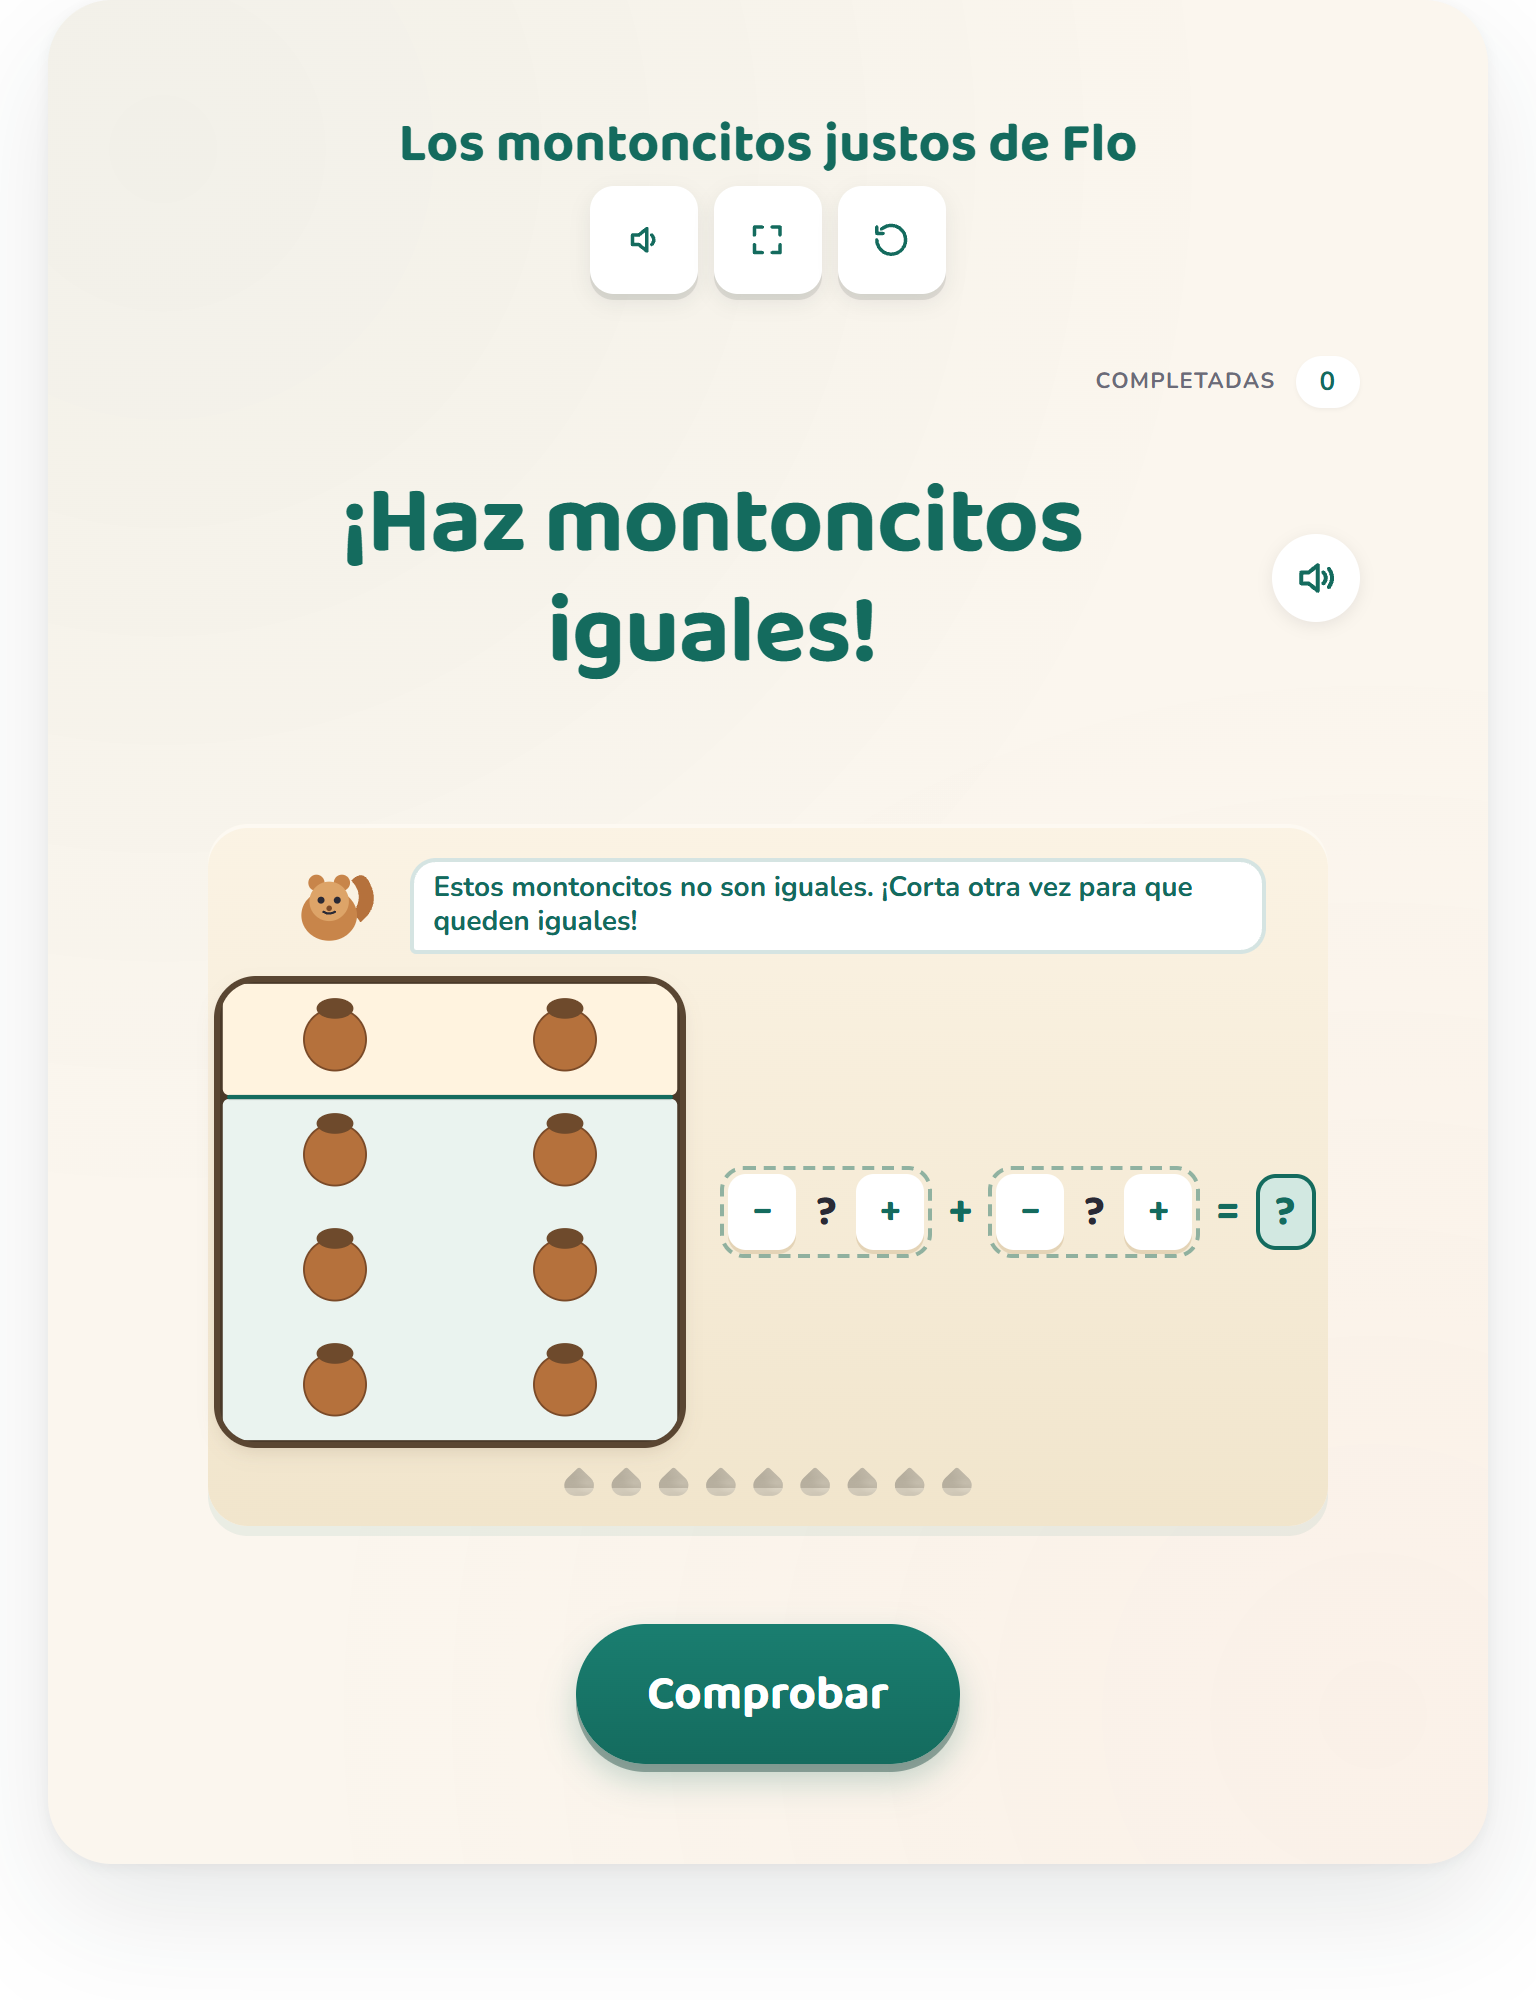
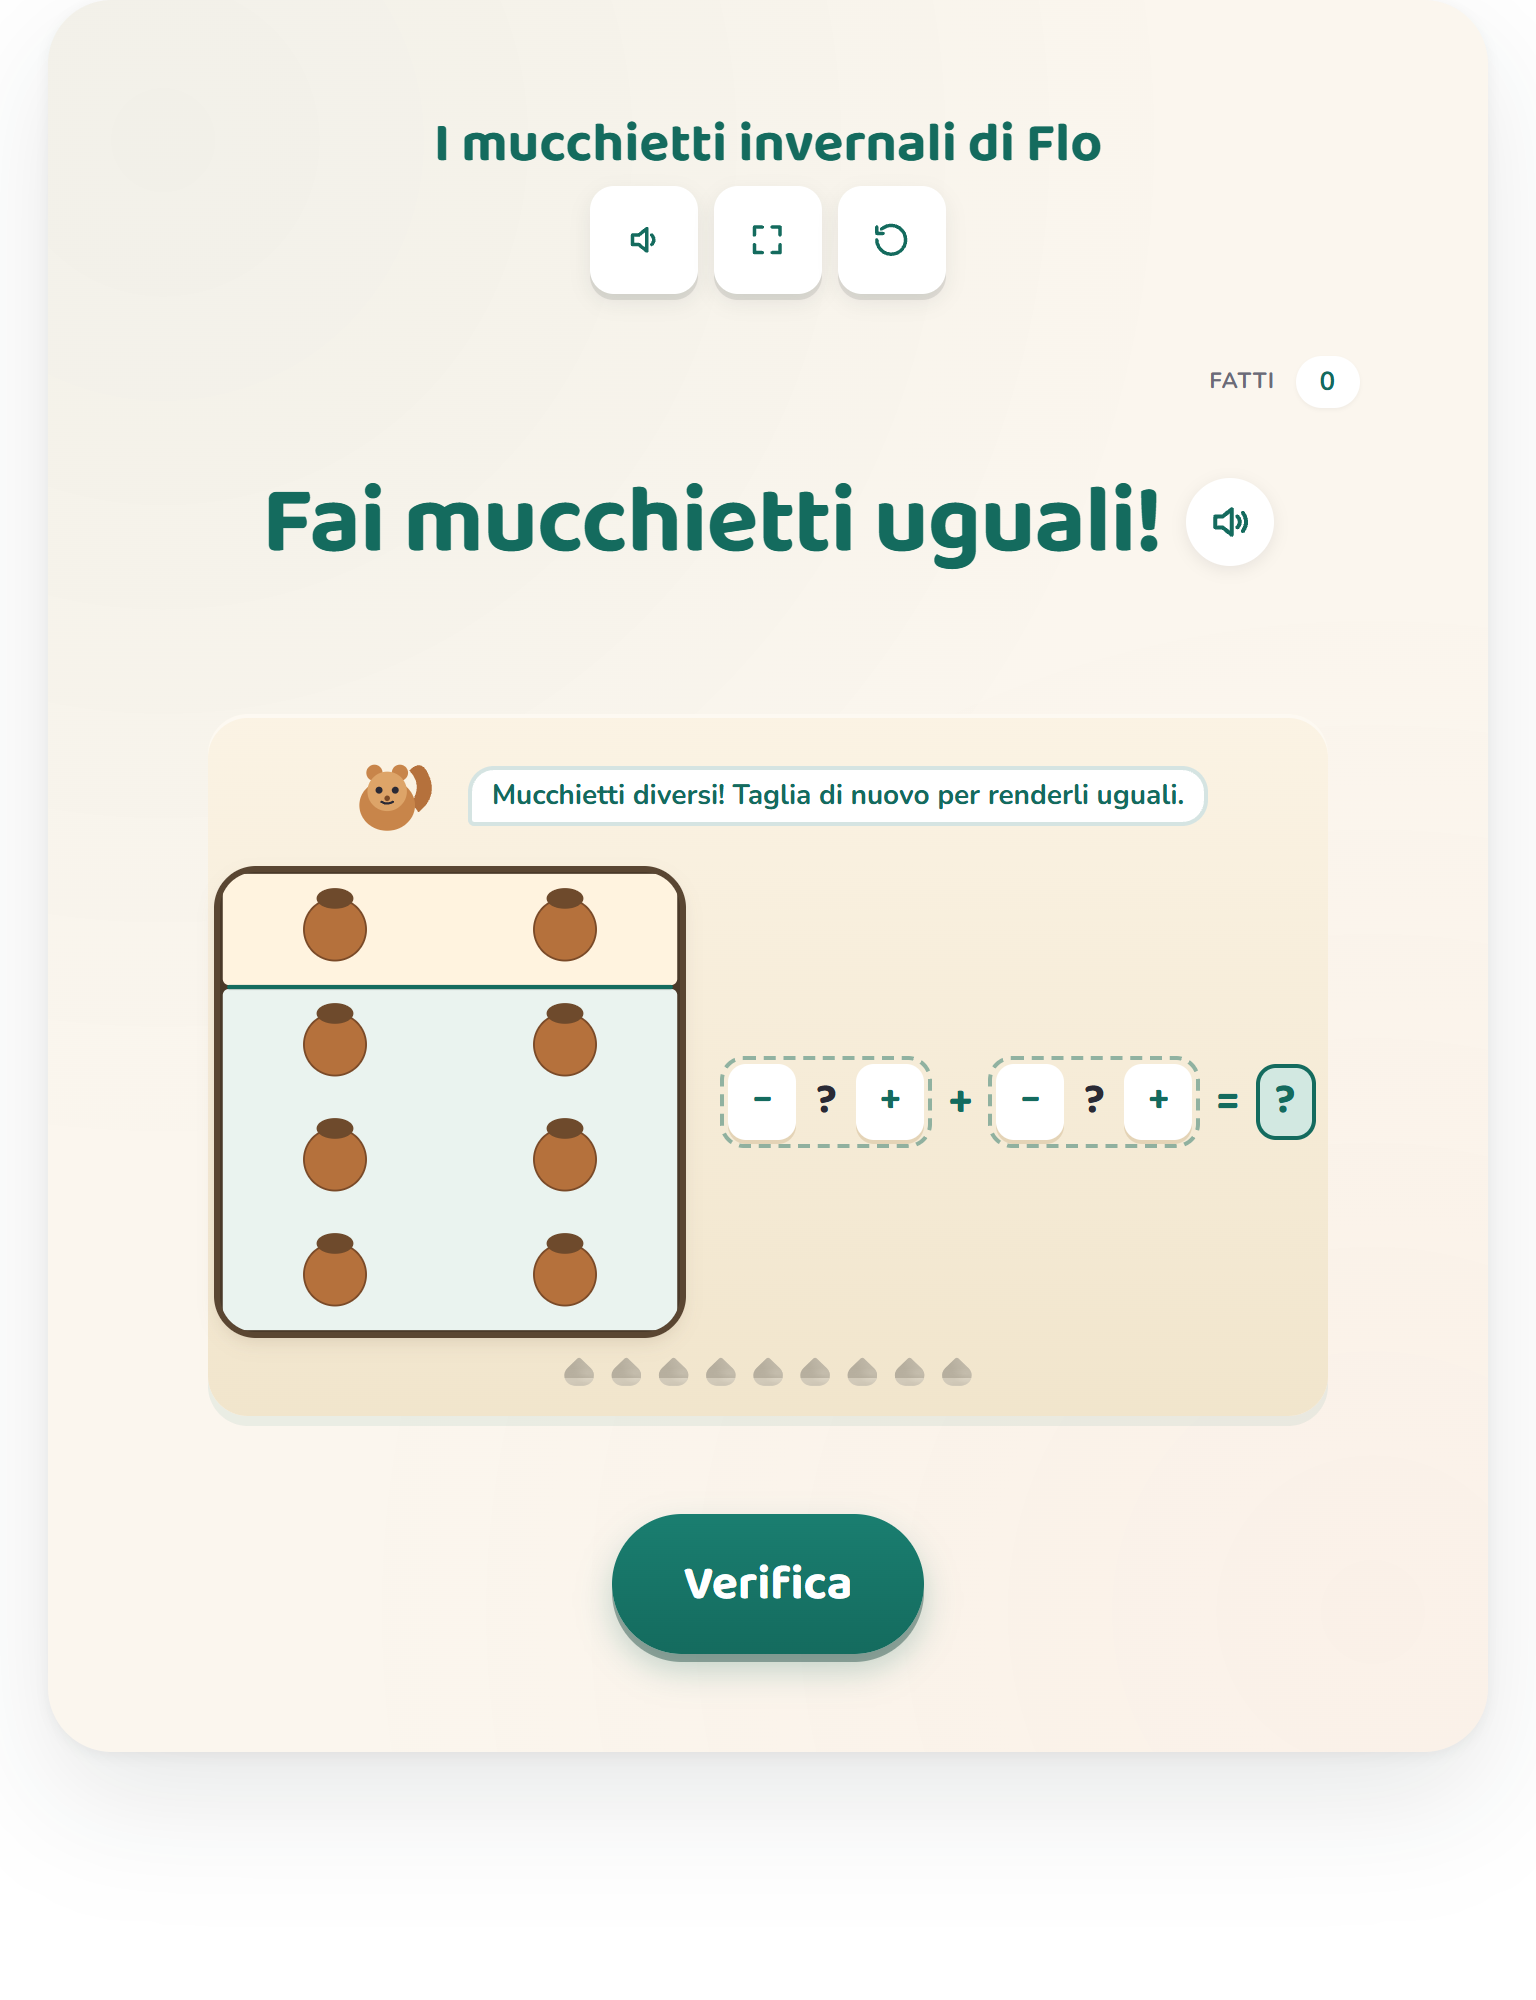
[FEATURE][I18N][IT] winter-piles #40 — I mucchietti invernali di Flo (addizione ripetuta / schieramento, classe seconda)
4th it MATH (milestone: 100 it activities): arrays / repeated addition of equal
addends — the FOUNDATION under echo-grove (mult) + maple-bakery (div). Flo the squirrel
sorts acorns in an array into equal piles; draw a line to cut into equal piles, read
each, and the equal-addends equation (4 + 4 + 4 = 12) appears + is spoken. Rebuilt for
the Indicazioni nazionali. 3-agent native it ensemble.

- Activity-layer only: 0 lines to draw-partition-core.js / lcs-shell.* / Direction-A CSS.
  ⚠ Edited ONLY `mini tools/` — NOT the gitignored stale frontend/public/mini-tools/ copy.
- This one SPEAKS (TTS): added ONES_IT (0-16) + numWord it-branch + speak() it-IT ×2 +
  the spoken-equation connectives (join «più» + connective «fa») + 3 aria it-arms
  (scoiattolo/meno/più) + 11 strings it: + slug/page_title/page_intro it.
- GRADE classe seconda (NATIVE grade 2, NO override) — schieramento/somma di addendi
  uguali = the seconda pre-multiplication bridge (ignore fr's CE1; even fr's badge is 2).
- STRAND «Numeri» AUTO (strand-names.ts, NO override). page.tsx = wrapper bump ONLY.
- ⭐⭐ «uguali» NOT «giusti» (giusti=«correct» blurs equality); «righe»; «Conferma!».
- ⚠ NEVER surface «×»/«per»(times) — the equation stays repeated-addition «4 + 4 + 4 = 12»,
  spoken «quattro più quattro più quattro fa dodici».
- «lo scoiattolo Flo» (masc); 100% apostrophe-free UI strings; SEO/prose U+2019 elisions
  restored (copywriter's straight-drops fixed).
[…]

diff --git a/mini tools/winter-piles-activity.js b/mini tools/winter-piles-activity.js
@@ -29,11 +29,13 @@
   var ONES_ES = ['cero', 'uno', 'dos', 'tres', 'cuatro', 'cinco', 'seis', 'siete', 'ocho', 'nueve', 'diez', 'once', 'doce', 'trece', 'catorce', 'quince', 'dieciséis'];
   /* Brazilian Portuguese standalone number words 0–16 (arrays ≤4×4 → addends/totals ≤16): catorze (BR dictionary form), dezesseis (BR, not EU dezasseis) */
   var ONES_PT = ['zero', 'um', 'dois', 'três', 'quatro', 'cinco', 'seis', 'sete', 'oito', 'nove', 'dez', 'onze', 'doze', 'treze', 'catorze', 'quinze', 'dezesseis'];
-  function numWord(n) { if (LANG === 'de') return ONES_DE[n] || String(n); if (LANG === 'fr') return ONES_FR[n] || String(n); if (LANG === 'es') return ONES_ES[n] || String(n); if (LANG === 'pt') return ONES_PT[n] || String(n); if (n < 20) return ONES[n]; var t = ['', '', 'twenty', 'thirty', 'forty', 'fifty']; return (t[Math.floor(n / 10)] || n) + (n % 10 ? '-' + ONES[n % 10] : ''); }
+  /* Italian standalone number words 0–16 (arrays ≤4×4 → addends/totals ≤16): «tre» no accent standalone; native it math ensemble */
+  var ONES_IT = ['zero', 'uno', 'due', 'tre', 'quattro', 'cinque', 'sei', 'sette', 'otto', 'nove', 'dieci', 'undici', 'dodici', 'tredici', 'quattordici', 'quindici', 'sedici'];
+  function numWord(n) { if (LANG === 'de') return ONES_DE[n] || String(n); if (LANG === 'fr') return ONES_FR[n] || String(n); if (LANG === 'es') return ONES_ES[n] || String(n); if (LANG === 'pt') return ONES_PT[n] || String(n); if (LANG === 'it') return ONES_IT[n] || String(n); if (n < 20) return ONES[n]; var t = ['', '', 'twenty', 'thirty', 'forty', 'fifty']; return (t[Math.floor(n / 10)] || n) + (n % 10 ? '-' + ONES[n % 10] : ''); }
 
   function speak(text) {
-    try { if (global.LCSAudio && global.LCSAudio.speak) { global.LCSAudio.speak({ type: 'number', text: text, lang: (LANG === 'es' ? 'es-MX' : LANG === 'pt' ? 'pt-BR' : LANG), rate: 0.92 }); return; }
-      if (global.speechSynthesis && global.SpeechSynthesisUtterance) { var u = new global.SpeechSynthesisUtterance(text); u.rate = .92; u.lang = (LANG === 'es' ? 'es-MX' : LANG === 'de' ? 'de-DE' : LANG === 'fr' ? 'fr-FR' : LANG === 'pt' ? 'pt-BR' : 'en-US'); global.speechSynthesis.cancel(); global.speechSynthesis.speak(u); } } catch (e) {}
+    try { if (global.LCSAudio && global.LCSAudio.speak) { global.LCSAudio.speak({ type: 'number', text: text, lang: (LANG === 'es' ? 'es-MX' : LANG === 'pt' ? 'pt-BR' : LANG === 'it' ? 'it-IT' : LANG), rate: 0.92 }); return; }
+      if (global.speechSynthesis && global.SpeechSynthesisUtterance) { var u = new global.SpeechSynthesisUtterance(text); u.rate = .92; u.lang = (LANG === 'es' ? 'es-MX' : LANG === 'de' ? 'de-DE' : LANG === 'fr' ? 'fr-FR' : LANG === 'pt' ? 'pt-BR' : LANG === 'it' ? 'it-IT' : 'en-US'); global.speechSynthesis.cancel(); global.speechSynthesis.speak(u); } } catch (e) {}
   }
   function svgEl(tag, attrs) { var e = document.createElementNS('http://www.w3.org/2000/svg', tag); if (attrs) for (var k in attrs) e.setAttribute(k, attrs[k]); return e; }
 
@@ -41,7 +43,7 @@
     var happy = mood === 'happy';
     var eyes = happy ? '<path d="M40 44 q4 -5 8 0 M54 44 q4 -5 8 0" stroke="#2A2A35" stroke-width="2.4" fill="none" stroke-linecap="round"/>' : '<circle cx="44" cy="45" r="3" fill="#2A2A35"/><circle cx="58" cy="45" r="3" fill="#2A2A35"/>';
     var mouth = happy ? '<path d="M44 55 q7 7 14 0" stroke="#2A2A35" stroke-width="2.3" fill="none" stroke-linecap="round"/>' : '<path d="M46 55 q5 3 10 0" stroke="#2A2A35" stroke-width="2" fill="none" stroke-linecap="round"/>';
-    return '<svg class="wp-sq-svg" viewBox="0 0 100 100" role="img" aria-label="' + (LANG === 'de' ? 'Eichhörnchen' : LANG === 'fr' ? 'écureuil' : LANG === 'es' ? 'ardilla' : LANG === 'pt' ? 'esquilo' : 'squirrel') + '">' +
+    return '<svg class="wp-sq-svg" viewBox="0 0 100 100" role="img" aria-label="' + (LANG === 'de' ? 'Eichhörnchen' : LANG === 'fr' ? 'écureuil' : LANG === 'es' ? 'ardilla' : LANG === 'pt' ? 'esquilo' : LANG === 'it' ? 'scoiattolo' : 'squirrel') + '">' +
       '<path d="M78 64 Q96 50 86 30 Q80 18 70 28 Q82 40 72 56 Z" fill="#B5713C"/>' + // tail
       '<ellipse cx="51" cy="58" rx="24" ry="22" fill="#C8854A"/>' +
       '<circle cx="40" cy="30" r="7" fill="#C8854A"/><circle cx="62" cy="30" r="7" fill="#C8854A"/>' +
@@ -54,17 +56,17 @@
     reward: { id: 'acorn-hoard', label: 'Acorn Hoard', emoji: '🌰' },
 
     strings: {
-      title: { en: "Squirrel's Fair Winter Piles", de: 'Flos faire Winterhäufchen', fr: 'Les tas égaux de Flo', es: 'Los montoncitos justos de Flo', pt: 'Os montinhos iguais de Flo' },
-      prompt: { en: 'Make fair piles!', de: 'Mach faire Häufchen!', fr: 'Fais des tas égaux !', es: '¡Haz montoncitos iguales!', pt: 'Faça montinhos iguais!' },
-      promptFair: { en: 'Cut the rows into piles that are all the same size.', de: 'Schneide die Reihen in Häufchen, die alle gleich groß sind.', fr: 'Coupe les rangées en tas qui ont tous la même taille.', es: 'Corta las filas en montoncitos que sean todos del mismo tamaño.', pt: 'Corte as fileiras em montinhos do mesmo tamanho.' },
-      promptN: { en: 'Make exactly {n} fair piles.', de: 'Mach genau {n} gleich große Häufchen.', fr: 'Fais exactement {n} tas égaux.', es: 'Haz exactamente {n} montoncitos iguales.', pt: 'Faça exatamente {n} montinhos iguais.' },
-      promptFix: { en: 'These piles are unfair — re-cut them so they match!', de: 'Diese Häufchen sind nicht gleich groß – schneide noch mal, damit sie zusammenpassen!', fr: 'Ces tas ne sont pas égaux — recoupe-les pour qu’ils correspondent !', es: 'Estos montoncitos no son iguales. ¡Corta otra vez para que queden iguales!', pt: 'Esses montinhos não estão iguais. Corte de novo!' },
-      promptMatch: { en: 'Cut and read to make {eq}.', de: 'Schneide und lies, um {eq} zu bauen.', fr: 'Coupe et lis pour faire {eq}.', es: 'Corta y lee para formar {eq}.', pt: 'Corte e leia para formar {eq}.' },
-      readHint: { en: 'Read each pile and tap its number in.', de: 'Lies jedes Häufchen und tippe seine Zahl ein.', fr: 'Lis chaque tas et entre son nombre.', es: 'Lee cada montoncito y escribe su número.', pt: 'Leia cada montinho e marque o número dele.' },
-      lockIt: { en: 'Lock it in!', de: 'Einrasten!', fr: 'Valide !', es: '¡Fíjalos!', pt: 'Prontinho!' },
-      win: { en: 'Fair piles! They sparkle as one!', de: 'Faire Häufchen! Sie funkeln wie eins!', fr: 'Des tas égaux ! Ils brillent ensemble !', es: '¡Montoncitos iguales! ¡Brillan como uno solo!', pt: 'Montinhos iguais! Eles brilham como um só!' },
-      unfair: { en: "Those piles aren't equal yet — make them all the same.", de: 'Die Häufchen sind noch nicht gleich groß – mach sie alle gleich.', fr: 'Ces tas ne sont pas encore égaux — fais-les tous pareils.', es: 'Los montoncitos todavía no son iguales. Haz que todos queden del mismo tamaño.', pt: 'Ainda não estão iguais. Deixe todos do mesmo tamanho.' },
-      hintCheck: { en: 'Make fair piles + read each one, then lock it in.', de: 'Mach gleich große Häufchen und lies jedes, dann raste sie ein.', fr: 'Fais des tas égaux et lis chacun, puis valide.', es: 'Haz montoncitos iguales y lee cada uno; luego fíjalos.', pt: 'Faça montinhos iguais, leia cada um e confirme.' }
+      title: { en: "Squirrel's Fair Winter Piles", de: 'Flos faire Winterhäufchen', fr: 'Les tas égaux de Flo', es: 'Los montoncitos justos de Flo', pt: 'Os montinhos iguais de Flo', it: 'I mucchietti invernali di Flo' },
+      prompt: { en: 'Make fair piles!', de: 'Mach faire Häufchen!', fr: 'Fais des tas égaux !', es: '¡Haz montoncitos iguales!', pt: 'Faça montinhos iguais!', it: 'Fai mucchietti uguali!' },
+      promptFair: { en: 'Cut the rows into piles that are all the same size.', de: 'Schneide die Reihen in Häufchen, die alle gleich groß sind.', fr: 'Coupe les rangées en tas qui ont tous la même taille.', es: 'Corta las filas en montoncitos que sean todos del mismo tamaño.', pt: 'Corte as fileiras em montinhos do mesmo tamanho.', it: 'Taglia le righe in mucchietti tutti uguali.' },
+      promptN: { en: 'Make exactly {n} fair piles.', de: 'Mach genau {n} gleich große Häufchen.', fr: 'Fais exactement {n} tas égaux.', es: 'Haz exactamente {n} montoncitos iguales.', pt: 'Faça exatamente {n} montinhos iguais.', it: 'Fai esattamente {n} mucchietti uguali.' },
+      promptFix: { en: 'These piles are unfair — re-cut them so they match!', de: 'Diese Häufchen sind nicht gleich groß – schneide noch mal, damit sie zusammenpassen!', fr: 'Ces tas ne sont pas égaux — recoupe-les pour qu’ils correspondent !', es: 'Estos montoncitos no son iguales. ¡Corta otra vez para que queden iguales!', pt: 'Esses montinhos não estão iguais. Corte de novo!', it: 'Mucchietti diversi! Taglia di nuovo per renderli uguali.' },
+      promptMatch: { en: 'Cut and read to make {eq}.', de: 'Schneide und lies, um {eq} zu bauen.', fr: 'Coupe et lis pour faire {eq}.', es: 'Corta y lee para formar {eq}.', pt: 'Corte e leia para formar {eq}.', it: 'Taglia e leggi per fare {eq}.' },
+      readHint: { en: 'Read each pile and tap its number in.', de: 'Lies jedes Häufchen und tippe seine Zahl ein.', fr: 'Lis chaque tas et entre son nombre.', es: 'Lee cada montoncito y escribe su número.', pt: 'Leia cada montinho e marque o número dele.', it: 'Leggi ogni mucchietto e tocca il suo numero.' },
+      lockIt: { en: 'Lock it in!', de: 'Einrasten!', fr: 'Valide !', es: '¡Fíjalos!', pt: 'Prontinho!', it: 'Conferma!' },
+      win: { en: 'Fair piles! They sparkle as one!', de: 'Faire Häufchen! Sie funkeln wie eins!', fr: 'Des tas égaux ! Ils brillent ensemble !', es: '¡Montoncitos iguales! ¡Brillan como uno solo!', pt: 'Montinhos iguais! Eles brilham como um só!', it: 'Mucchietti uguali! Brillano tutti insieme!' },
+      unfair: { en: "Those piles aren't equal yet — make them all the same.", de: 'Die Häufchen sind noch nicht gleich groß – mach sie alle gleich.', fr: 'Ces tas ne sont pas encore égaux — fais-les tous pareils.', es: 'Los montoncitos todavía no son iguales. Haz que todos queden del mismo tamaño.', pt: 'Ainda não estão iguais. Deixe todos do mesmo tamanho.', it: 'Questi mucchietti non sono ancora uguali: falli tutti della stessa grandezza.' },
+      hintCheck: { en: 'Make fair piles + read each one, then lock it in.', de: 'Mach gleich große Häufchen und lies jedes, dann raste sie ein.', fr: 'Fais des tas égaux et lis chacun, puis valide.', es: 'Haz montoncitos iguales y lee cada uno; luego fíjalos.', pt: 'Faça montinhos iguais, leia cada um e confirme.', it: 'Fai mucchietti uguali, leggi ognuno e poi conferma.' }
     },
     defaults: {},
 
@@ -210,9 +212,9 @@
       piles.forEach(function (trueCount, i) {
         if (i > 0) { var op = api.el('span', 'wp-op'); op.textContent = '+'; strip.appendChild(op); }
         var slot = api.el('div', 'wp-slot' + (self.addends[i] == null ? ' wp-blank' : '') + (valid ? ' wp-slot-win' : ''));
-        var minus = api.el('button', 'wp-step wp-minus'); minus.type = 'button'; minus.textContent = '−'; minus.setAttribute('aria-label', (LANG === 'es' || LANG === 'pt' ? 'menos' : 'minus'));
+        var minus = api.el('button', 'wp-step wp-minus'); minus.type = 'button'; minus.textContent = '−'; minus.setAttribute('aria-label', (LANG === 'es' || LANG === 'pt' ? 'menos' : LANG === 'it' ? 'meno' : 'minus'));
         var num = api.el('span', 'wp-num'); num.textContent = self.addends[i] == null ? '?' : self.addends[i];
-        var plus = api.el('button', 'wp-step wp-plus'); plus.type = 'button'; plus.textContent = '+'; plus.setAttribute('aria-label', (LANG === 'es' ? 'más' : LANG === 'pt' ? 'mais' : 'plus'));
+        var plus = api.el('button', 'wp-step wp-plus'); plus.type = 'button'; plus.textContent = '+'; plus.setAttribute('aria-label', (LANG === 'es' ? 'más' : LANG === 'pt' ? 'mais' : LANG === 'it' ? 'più' : 'plus'));
         if (!self.solved) {
           minus.addEventListener('click', function () { self._setAddend(i, Math.max(0, (self.addends[i] || 0) - 1)); });
           plus.addEventListener('click', function () { self._setAddend(i, Math.min(self._R() * self._Cc(), (self.addends[i] == null ? 0 : self.addends[i]) + 1)); });
@@ -236,7 +238,7 @@
     _isValid: function () { return Core.validate(this.round, this.cuts, this.addends.map(function (a) { return a == null ? -1 : a; })); },
     _onBecomeValid: function () {
       this.api.sound && this.api.sound(880);
-      var piles = Core.derivePiles(this.round, this.cuts), eq = piles.map(numWord).join(LANG === 'es' ? ' más ' : LANG === 'pt' ? ' mais ' : ' plus ') + (LANG === 'de' ? ' ist gleich ' : LANG === 'fr' ? ' égale ' : LANG === 'es' ? ' es igual a ' : LANG === 'pt' ? ' é igual a ' : ' equals ') + numWord(this._R() * this._Cc());
+      var piles = Core.derivePiles(this.round, this.cuts), eq = piles.map(numWord).join(LANG === 'es' ? ' más ' : LANG === 'pt' ? ' mais ' : LANG === 'it' ? ' più ' : ' plus ') + (LANG === 'de' ? ' ist gleich ' : LANG === 'fr' ? ' égale ' : LANG === 'es' ? ' es igual a ' : LANG === 'pt' ? ' é igual a ' : LANG === 'it' ? ' fa ' : ' equals ') + numWord(this._R() * this._Cc());
       this.api.announce && this.api.announce(this.api.t('win')); speak(eq);
     },
 

diff --git a/frontend/app/[locale]/activities/[slug]/page.tsx b/frontend/app/[locale]/activities/[slug]/page.tsx
@@ -547,7 +547,7 @@ export default async function ActivityPage({ params }: { params: PageParams }) {
   // applied here to the iframe-loaded wrapper URL (the only un-busted
   // link in the activity-page → mini-tool chain). The wrapper reads
   // only `activity` / `lang` / `embed` params; `v` is harmless to it.
-  const ACTIVITY_WRAPPER_VERSION = '9.492';
+  const ACTIVITY_WRAPPER_VERSION = '9.493';
 
   const iframeSrc =
     `/mini-tools/${row.tool}.html?v=${ACTIVITY_WRAPPER_VERSION}` +

diff --git a/mini tools/winter-piles-activity.html b/mini tools/winter-piles-activity.html
@@ -17,7 +17,7 @@
        NOTE: bump ?v=N on EVERY change to winter-piles-activity.js (§A.13.42). -->
   <script src="/mini-tools/lcs-shell.js?v=5"></script>
   <script src="/mini-tools/draw-partition-core.js?v=1"></script>
-  <script src="/mini-tools/winter-piles-activity.js?v=13"></script>
+  <script src="/mini-tools/winter-piles-activity.js?v=14"></script>
   <script>
     LCS.mount(WinterPilesActivity, { mount: '#lcs-root' });
   </script>
